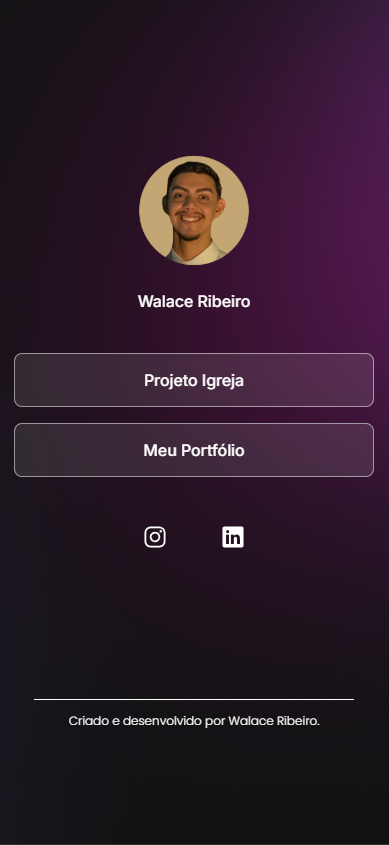
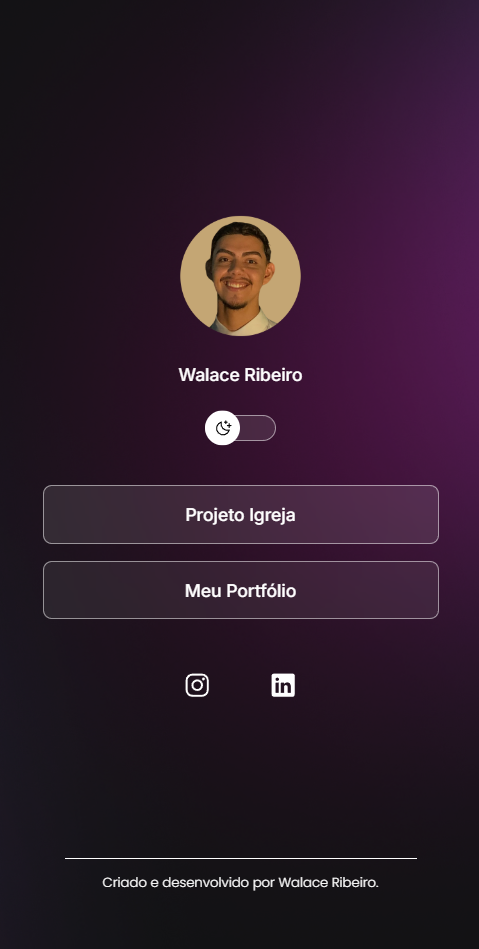
adding and styling the theme selector button

diff --git a/style.css b/style.css
@@ -11,6 +11,7 @@
   --surface-color:rgba(255, 255, 255, 0.1);
   --surface-color-hover: rgba(255, 255, 255, 0.05);
   --social-hover: rgba(255, 255, 255, 0.15);
+  --switch-bg-url: url(.//assets/moon-stars.svg)
 }
 
 .light{ 
@@ -18,8 +19,9 @@
   --bg-url:url(./assets/bg-light.jpg);
   --stroke-color: black;
   --surface-color: rgba(255, 255, 255, 0.05);
-  --surface-color-hover: rgba(255, 255, 255, 0.15);
-  --social-hover: rgba(255, 255, 255, 0.15);
+  --surface-color-hover: #9f8f8f26;
+  --social-hover: #9c8f8f26;
+  --switch-bg-url:url(.//assets/sun.svg)
 }
 
 body {
@@ -44,6 +46,8 @@ body * {
   width: 360px;
 }
 
+/*profile*/
+
 #profile {
   text-align: center;
 }
@@ -54,7 +58,48 @@ body * {
 #profile p {
   font-weight: 500;
   line-height: 24px;
+  padding: 0 0 24px;
 }
+
+/*switch*/
+
+#switch{
+  position: relative;
+  width: 64px;
+  margin: 0 auto;
+  
+}
+#switch button {
+  width: 32px;
+  height: 32px;
+  left: 0;
+  background: white var(--switch-bg-url) no-repeat center;
+  border: 0;
+  border-radius: 50%;
+
+  position: absolute;
+  top: 50%;
+  z-index: 1;
+  transform: translateY(-50%);
+
+}
+.light #switch button {
+  right: 0;
+  left: initial;
+}
+#switch span {
+display: block;
+width: 64px;
+height: 24px;
+background: var(--surface-color);
+backdrop-filter: blur(4px);
+-webkit-backdrop-filter: blur(4px);
+border: 1px solid var(--stroke-color);
+border-radius: 9999px;
+
+}
+
+
 /* links */
 ul {
   margin-top: 24px;
@@ -109,7 +154,7 @@ ul li a:hover {
 
 footer {
   display: flex;
-  text-align: center;
+text-align: center;
   justify-content: center;
   padding: 12px;
   border-top: solid 1px var(--text-color);

diff --git a/index.html b/index.html
@@ -1,5 +1,5 @@
 <!DOCTYPE html>
-<html lang="pt-br" class="light">
+<html lang="pt-br" class="">
   <head>
     <link rel="preconnect" href="https://fonts.googleapis.com" />
     <link rel="preconnect" href="https://fonts.gstatic.com" crossorigin />
@@ -29,6 +29,10 @@
           />
           <p>Walace Ribeiro</p>
         </div>
+       <div id="switch">
+        <button></button>
+        <span></span>
+      </div>
         <ul>
           <li>
             <a href="#">Projeto Igreja</a>
